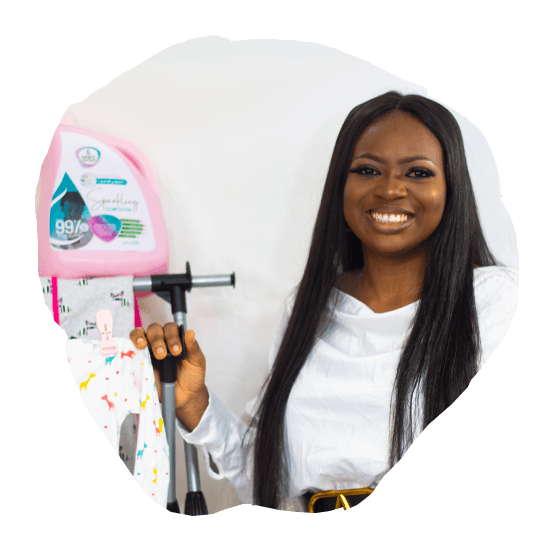
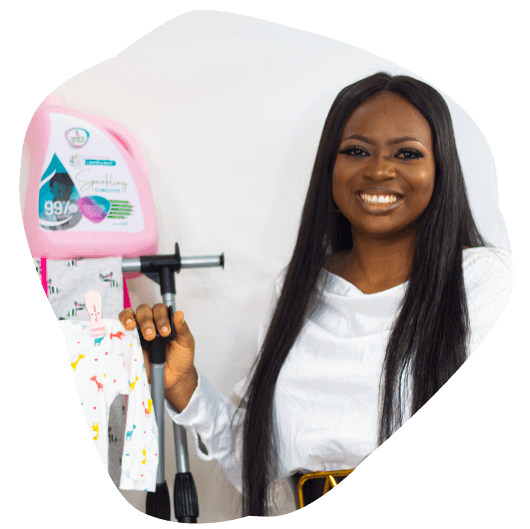
Recropped the image in the contact section and adjusted its max-width property

diff --git a/src/components/layouts/Contact.js b/src/components/layouts/Contact.js
@@ -81,39 +81,39 @@ const useStyles = makeStyles((theme) => ({
     },
   },
   greenWire: {
-    maxWidth: "30em",
+    maxWidth: "30.5em",
     position: "absolute",
     left: "0.5em",
     top: "-1em",
     transform: "rotate(-20deg)",
 
     [theme.breakpoints.down("md")]: {
-      maxWidth: "20em",
+      maxWidth: "20.5em",
     },
     [theme.breakpoints.down("sm")]: {
-      maxWidth: "25em",
+      maxWidth: "25.5em",
       left: "50%",
       transform: "translateX(-50%) rotate(-20deg)",
     },
     [theme.breakpoints.down("xs")]: {
-      maxWidth: "20em",
+      maxWidth: "20.5em",
     },
   },
   pinkWire: {
-    maxWidth: "30em",
+    maxWidth: "30.5em",
     position: "absolute",
     left: 0,
 
     [theme.breakpoints.down("md")]: {
-      maxWidth: "20em",
+      maxWidth: "20.5em",
     },
     [theme.breakpoints.down("sm")]: {
-      maxWidth: "25em",
+      maxWidth: "25.5em",
       left: "50%",
       transform: "translateX(-50%)",
     },
     [theme.breakpoints.down("xs")]: {
-      maxWidth: "20em",
+      maxWidth: "20.5em",
     },
   },
   safewashLady: {
@@ -166,19 +166,19 @@ const Contact = ({ setValue }) => {
           src={safewashLady}
           alt="A safewash representative holding the safewash detergent gallon"
           className={classes.safewashLady}
-          style={{ maxWidth: matchesXXXS ? "15em" : undefined }}
+          style={{ maxWidth: matchesXXXS ? "15.5em" : undefined }}
         />
         <img
           src={pinkWire}
           alt="A pink wireframe around the safewash lady"
           className={classes.pinkWire}
-          style={{ maxWidth: matchesXXXS ? "15em" : undefined }}
+          style={{ maxWidth: matchesXXXS ? "15.5em" : undefined }}
         />
         <img
           src={greenWire}
           alt="A green wireframe around the safewash lady"
           className={classes.greenWire}
-          style={{ maxWidth: matchesXXXS ? "15em" : undefined }}
+          style={{ maxWidth: matchesXXXS ? "15.5em" : undefined }}
         />
       </Grid>
       <Grid item>
